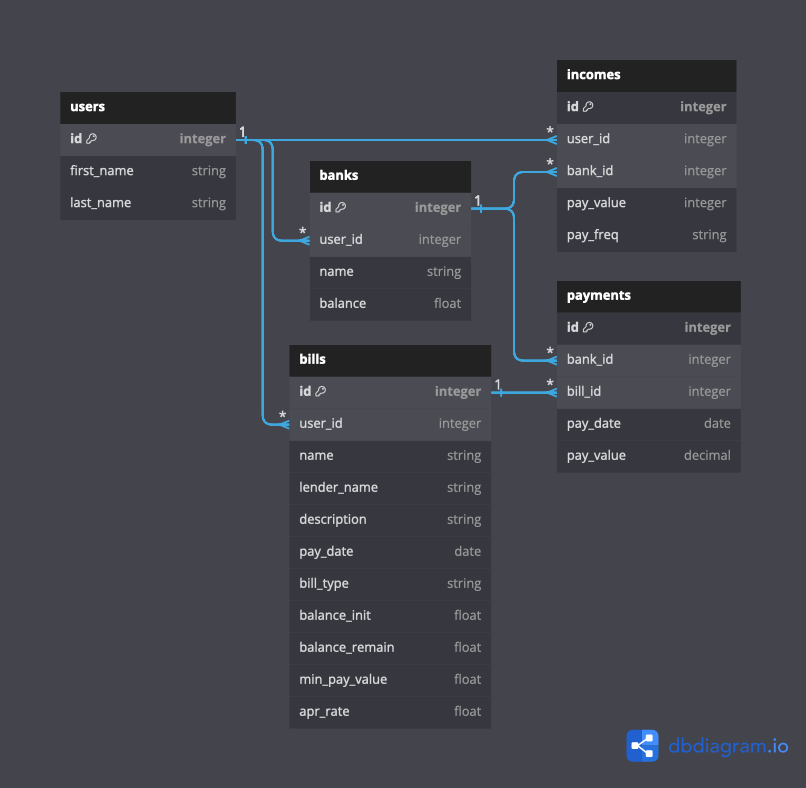
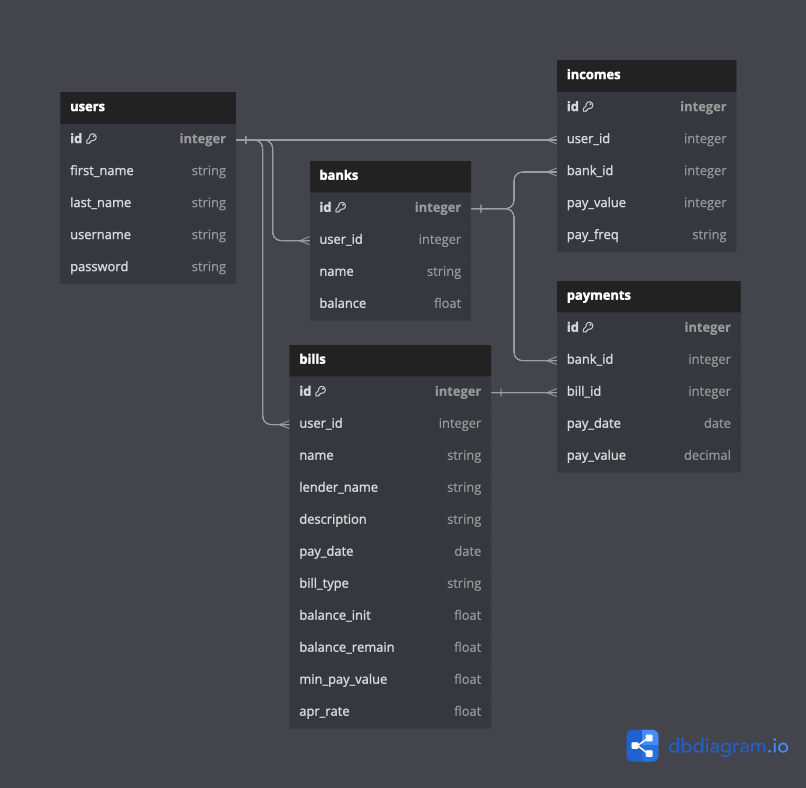
Initial Updates

diff --git a/app/vite.config.js b/app/vite.config.js
@@ -1,0 +1,19 @@
+import { defineConfig } from 'vite'
+import react from '@vitejs/plugin-react'
+
+
+export default defineConfig({
+  plugins: [react()],
+  server: {
+  port: 3000,
+  cors: true,
+  proxy: {
+      "/api":{
+          target: "http://127.0.0.1:5555",
+          changeOrigin:true,
+          secure: false,
+          rewrite: (path)=>path.replace(/^\/api/,"")
+      }
+  }
+}
+})

diff --git a/app/src/App.js b/app/src/App.js
@@ -1,6 +1,17 @@
 import logo from './logo.svg';
 import './App.css';
 
+import { useState , useEffect} from 'react'
+import {
+  createBrowserRouter,
+  BrowserRouter,
+  RouterProvider,
+  Routes,
+  Route,
+  Router,
+  Link
+} from "react-router-dom";
+
 function App() {
   return (
     <div className="App">

diff --git a/server/models.py b/server/models.py
@@ -22,6 +22,8 @@ class User(db.Model, SerializerMixin):
     id = db.Column(db.Integer, primary_key=True)
     first_name = db.Column(db.String)
     last_name = db.Column(db.String)
+    username = db.Column(db.String)
+    password = db.Column(db.String)
 
     # Add relationship
 

diff --git a/README.md b/README.md
@@ -20,37 +20,41 @@ Transform your finances with a dynamic and interactive payment strategy. Integra
 4. Enjoy the program!
 
 ## Backend (API)
-### Models
-#### One to Many - User: Bills, Banks, Incomes
+### Model Relationships
+#### One to Many - User to Bills, Banks, and Incomes
 * A `User` has many `Bills`, `Banks`, and `Incomes`
 * A `User` has many `Payments` through `Bills` and `Banks`
 * A `Bill` belongs to a `User`
 * A `Bank` belongs to a `User`
 * A `Income` belongs to a `User`
 
-#### Many to Many - Bills, Banks: Payments
+#### Many to Many - Bills and Banks to Payments
 * A `Bill` has many `Payments` through the payments table.
 * A `Bank` has many `Payments` through the payments table.
 * A `Payment` belongs to `Bill` and `Bank`
 
-### Validations
+### Model Validations
 
 #### Users
-* must have `first_name` and `last_name`
+* `first_name` and `last_name` must be Strings under 20 characters
+* `username` must be 7-20 characters and not already exist
+* `password` must be 7-20 characters and include one `['!','@','#','$','%','^','&','*','(',')']`
 
 #### Banks
-* `name` and `balance`must exist
+* `name` is a String under 20 characters
+* `balance` must be a positive Float
 
 #### Incomes
 * `pay_value` must be greater than 0
 * `pay_freq` must be between 1-4 (payouts per month)
 
 #### Bills
-* `name` is under 20 characters
+* `name` is String under 20 characters
 * `lender_name` is an optional String less than 20 characters
 * `description` is an optional String less than 50 characters
 * `bill_type`, and `pay_date` must exist
-* `balance_init`, `balance_remain`, `min_pay_value`, and `apr_rate` must all be positive Floats
+* `balance_init`, `balance_remain`, and `min_pay_value` must all be positive Floats
+* `apr_rate` must be a positive float between 0-100, with a max of two decimal points
 
 #### Payments
 * `pay_value` must be a Decimal(?)
@@ -107,24 +111,24 @@ Transform your finances with a dynamic and interactive payment strategy. Integra
     PATCH/payment/<int:id>
     DELETE/payment/<int:id>
 ```
-## Data flow visualizations
+## Data Flow Visualizations
 
- ### ERD Database Table: 
+ ### ORD Database Table: 
  The entity relationship database is illustrated here: 
 
 ![cli](./CreditScape_ORD.png)
 
 
- ### CLI data schema flow chart: 
+ ### Front End Design Schema: 
  The command line interface has a structured user iterface flow: 
 
-![demo](./cli_flow.svg) 
+https://www.figma.com/file/7xG34iBgHUY9qWnEbleQJg/Untitled?type=whiteboard&node-id=0%3A1&t=eLtOtzlE8pjkfg0n-1
 
-## Libraries Utilized
+## Technologies Used
 
-1. SQLite
-2. OS
-3. PrettyTable
-4. Datetime
-5. Drawio
-6. dbdiagram.io
+- **Python**: The primary language used for backend development.
+- **Flask**: A micro web framework written in Python.
+- **React**: A JavaScript library for building user interfaces.
+- **REST APIs**: Handles requests and responses between the client and server.
+- **SQLAlchemy**: An SQL toolkit and Object-Relational Mapping (ORM) for Python.
+- **Dbdiagram.io**: An ORD visualization software
